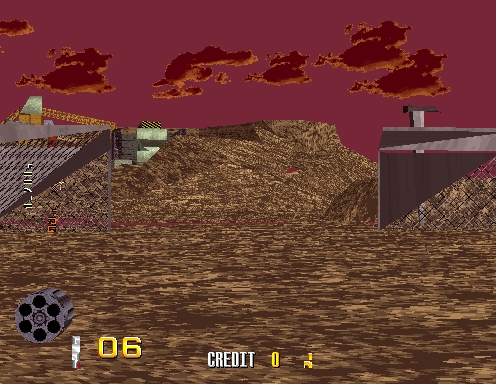
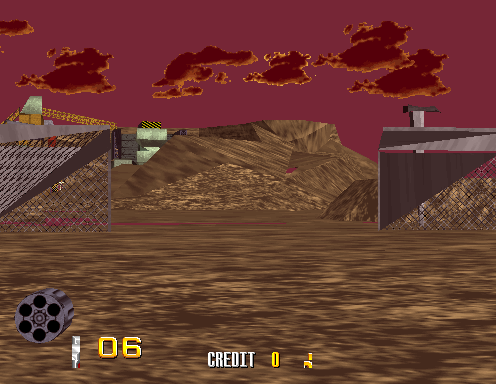
Bump model2recomp: bilinear, mipmaps and the microtexture
The last of what looked like broken geometry was a missing filter.
Virtua Cop's ground and distant walls are almost entirely minified, so
point sampling aliased them into noise.

New screenshots. The attract frame carries 745 distinct colours where
it carried about 220 at the start of the day, and the wharf's sign is
readable text.

Claude-Session: https://claude.ai/code/session_01YVeaVrvEGYRqvy8EiHFsVe

diff --git a/docs/technical/known-issues.md b/docs/technical/known-issues.md
@@ -135,9 +135,15 @@ checkerboard stipple.
 
 The attract frame goes from about 220 distinct colours to 500.
 
-What is still missing is the filtering: point sampling, no bilinear, no
-mipmaps, no microtexture. Without mipmaps a minified texture aliases, so
-ground planes and distant walls are noisier than the hardware's.
+**The filtering followed.** Bilinear, mipmaps chosen from the depth, trilinear
+blending between levels and the microtexture below level 0 - `model2rd.ipp`'s
+texel path in full. This was not cosmetic: Virtua Cop's ground planes and
+distant walls are almost entirely minified, so without mipmaps they aliased
+into noise, which is easy to mistake for broken geometry.
+
+The attract frame went from about 220 distinct colours before any of this to
+745 after all of it, and the sign over the wharf reads "WHARF AM2 /
+INTERNATIONAL TRADING / IMPORT & EXPORT ZONE".
 
 ---
 

diff --git a/README.md b/README.md
@@ -45,7 +45,7 @@ the matrices, and model2recomp's rasterizer draws it.*
 | Boot | Full chain: reset stub → IAC reinitialize → firmware entry → `main` |
 | Frame loop | The game's own, at its video-status busy-wait |
 | Interrupts | VBlank handler dispatched at the field boundary |
-| Geometry + rasterizer | Working — textured, lit, z-sorted, translucency and texture wrap correct |
+| Geometry + rasterizer | Working — bilinear, mipmapped, lit, z-sorted, with translucency |
 | Tilemaps | Working — four System 24 layers, two passes around the 3D |
 | Math coprocessor | Working — MB86233 emulated, runs the game's microcode |
 | Input | **Working.** Mouse is the lightgun; coin, start, service and test reach the game |
